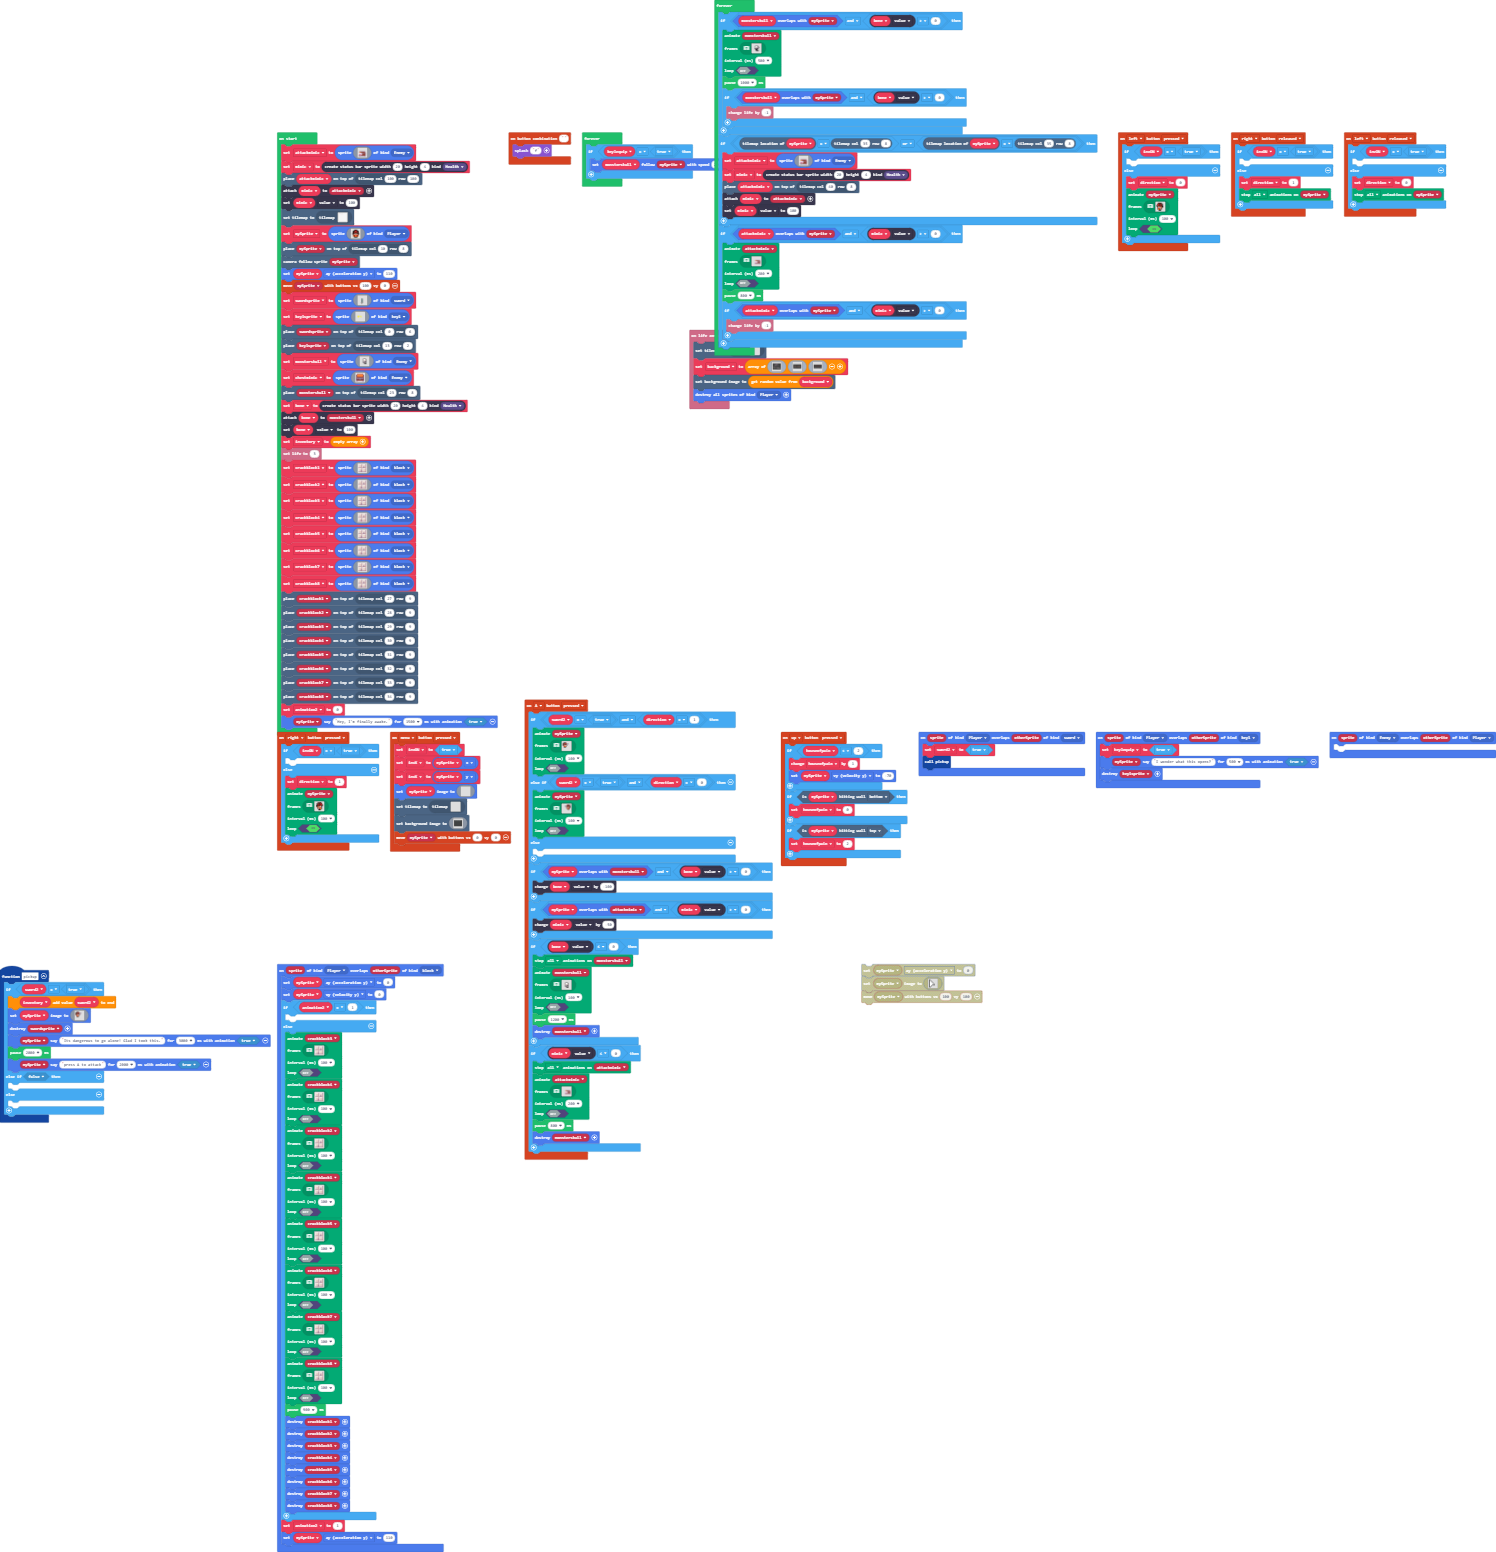
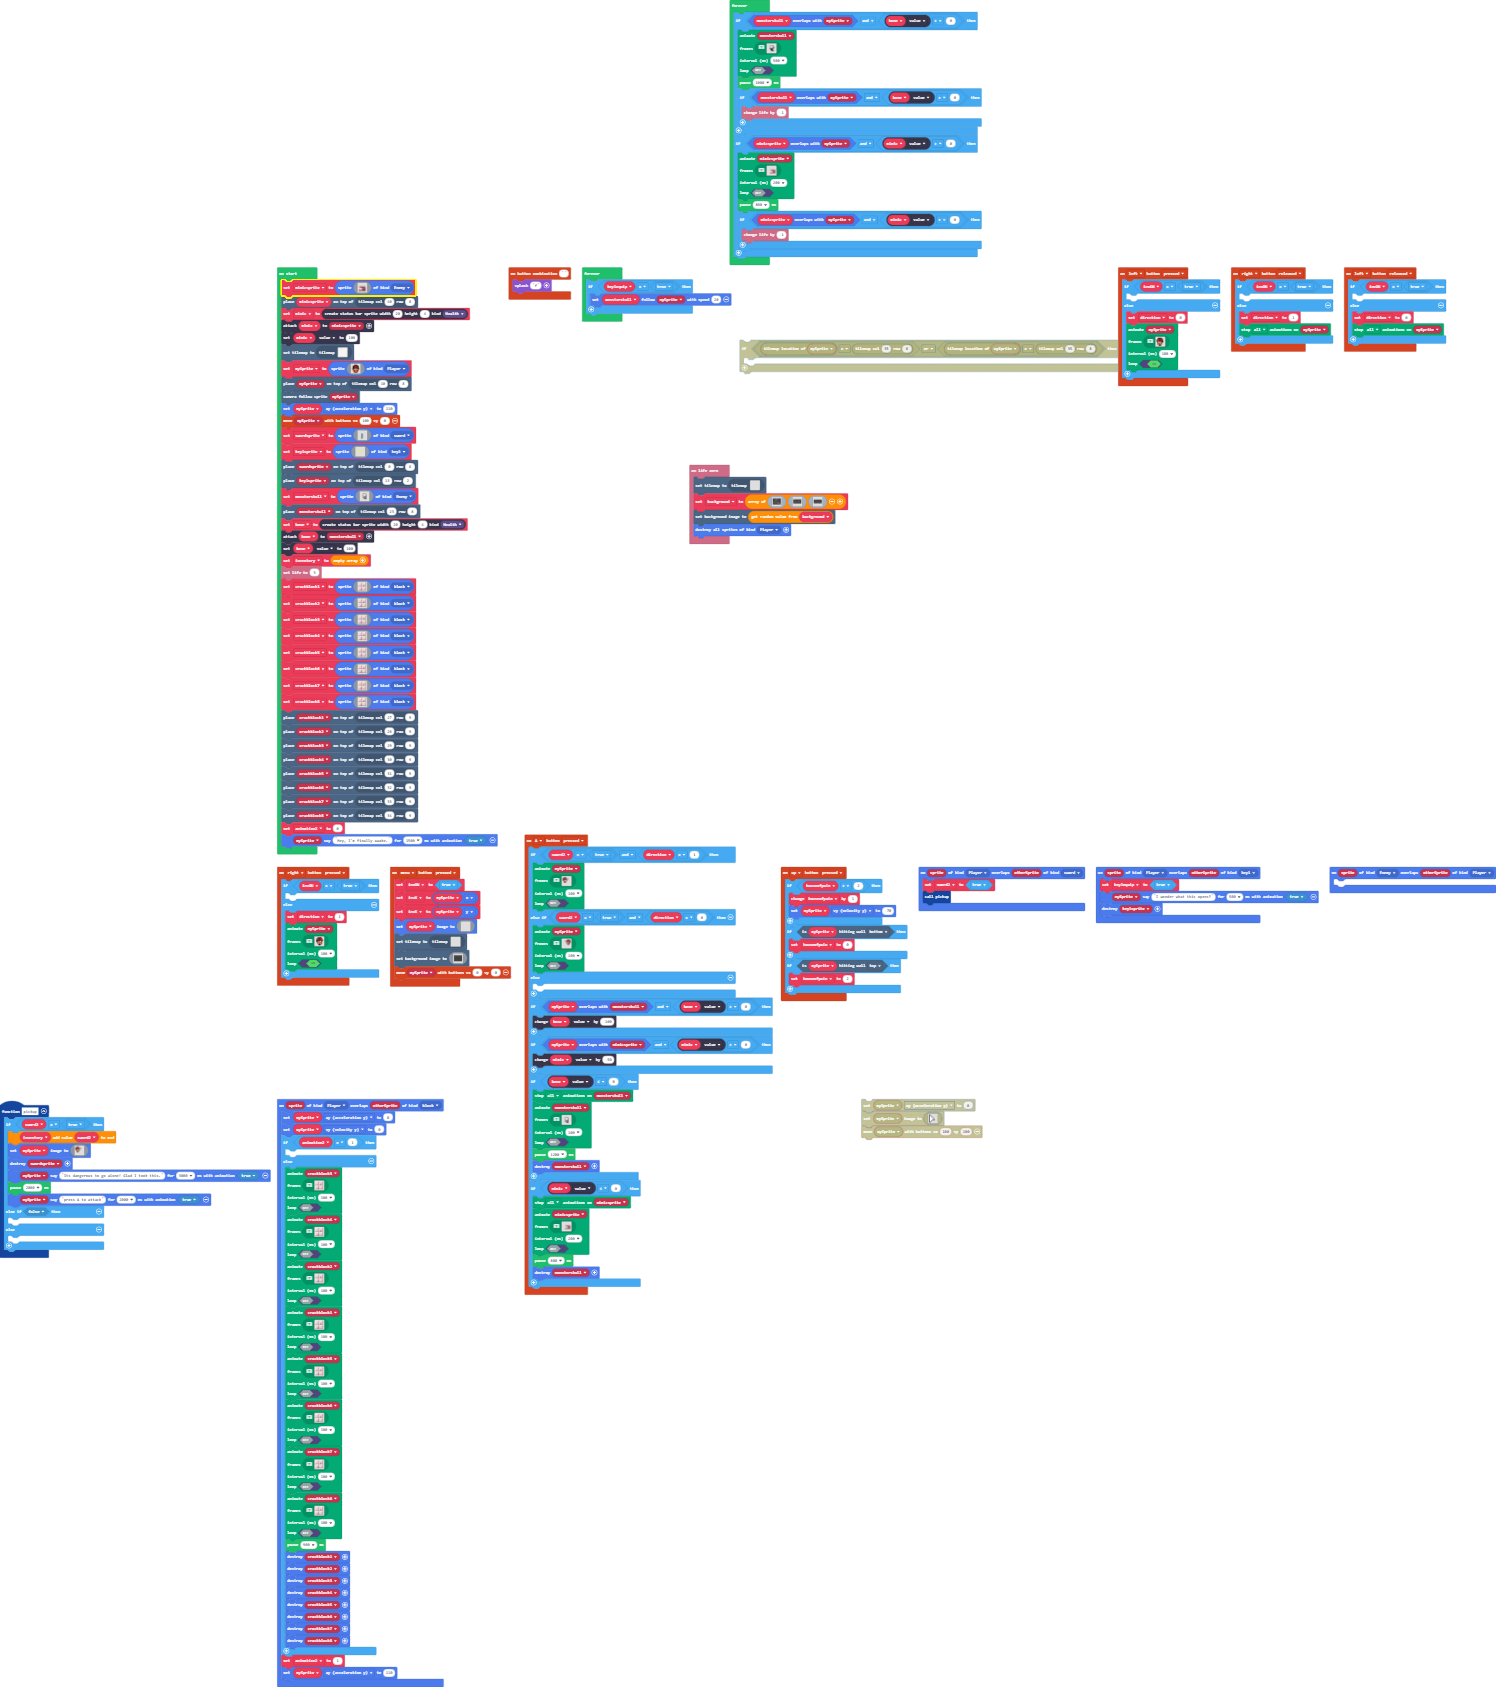
Update main.blocks, main.ts, tilemap.g.jres, tilemap.g.ts

Changed region(s): [[0.1845, 0.0619, 1.0, 0.7732], [0.3382, 0.0, 0.984, 0.3402], [0.0, 0.6186, 0.3075, 1.0]]

diff --git a/tilemap.g.ts b/tilemap.g.ts
@@ -299,6 +299,63 @@ namespace myTiles {
 . . . . . . . . . . . . . . . . 
 . . . . . . . . . . . . . . . . 
 `, [myTiles.transparency16], TileScale.Sixteen);
+            case "level11":
+            case "level11":return tiles.createTilemap(hex`1000100000000000000000000000000000000000000000000000000000000000000000000000000000000000000000000000000000000000000000000000000000000000000000000000000000000000000000000000000000000000000000000000000000000000000000000000000000000000000000000000000000000000000000000000000000000000000000000000000000000000000000000000000000000000000000000000000000000000000000000000000000000000000000000000000000000000000000000000000000000000000000000000000000000000000000000000000000000000000000000000000000000000000000000000000000000000`, img`
+. . . . . . . . . . . . . . . . 
+. . . . . . . . . . . . . . . . 
+. . . . . . . . . . . . . . . . 
+. . . . . . . . . . . . . . . . 
+. . . . . . . . . . . . . . . . 
+. . . . . . . . . . . . . . . . 
+. . . . . . . . . . . . . . . . 
+. . . . . . . . . . . . . . . . 
+. . . . . . . . . . . . . . . . 
+. . . . . . . . . . . . . . . . 
+. . . . . . . . . . . . . . . . 
+. . . . . . . . . . . . . . . . 
+. . . . . . . . . . . . . . . . 
+. . . . . . . . . . . . . . . . 
+. . . . . . . . . . . . . . . . 
+. . . . . . . . . . . . . . . . 
+`, [myTiles.transparency16], TileScale.Sixteen);
+            case "level12":
+            case "level12":return tiles.createTilemap(hex`1000100000000000000000000000000000000000000000000000000000000000000000000000000000000000000000000000000000000000000000000000000000000000000000000000000000000000000000000000000000000000000000000000000000000000000000000000000000000000000000000000000000000000000000000000000000000000000000000000000000000000000000000000000000000000000000000000000000000000000000000000000000000000000000000000000000000000000000000000000000000000000000000000000000000000000000000000000000000000000000000000000000000000000000000000000000000000`, img`
+. . . . . . . . . . . . . . . . 
+. . . . . . . . . . . . . . . . 
+. . . . . . . . . . . . . . . . 
+. . . . . . . . . . . . . . . . 
+. . . . . . . . . . . . . . . . 
+. . . . . . . . . . . . . . . . 
+. . . . . . . . . . . . . . . . 
+. . . . . . . . . . . . . . . . 
+. . . . . . . . . . . . . . . . 
+. . . . . . . . . . . . . . . . 
+. . . . . . . . . . . . . . . . 
+. . . . . . . . . . . . . . . . 
+. . . . . . . . . . . . . . . . 
+. . . . . . . . . . . . . . . . 
+. . . . . . . . . . . . . . . . 
+. . . . . . . . . . . . . . . . 
+`, [myTiles.transparency16], TileScale.Sixteen);
+            case "level13":
+            case "level13":return tiles.createTilemap(hex`1000100000000000000000000000000000000000000000000000000000000000000000000000000000000000000000000000000000000000000000000000000000000000000000000000000000000000000000000000000000000000000000000000000000000000000000000000000000000000000000000000000000000000000000000000000000000000000000000000000000000000000000000000000000000000000000000000000000000000000000000000000000000000000000000000000000000000000000000000000000000000000000000000000000000000000000000000000000000000000000000000000000000000000000000000000000000000`, img`
+. . . . . . . . . . . . . . . . 
+. . . . . . . . . . . . . . . . 
+. . . . . . . . . . . . . . . . 
+. . . . . . . . . . . . . . . . 
+. . . . . . . . . . . . . . . . 
+. . . . . . . . . . . . . . . . 
+. . . . . . . . . . . . . . . . 
+. . . . . . . . . . . . . . . . 
+. . . . . . . . . . . . . . . . 
+. . . . . . . . . . . . . . . . 
+. . . . . . . . . . . . . . . . 
+. . . . . . . . . . . . . . . . 
+. . . . . . . . . . . . . . . . 
+. . . . . . . . . . . . . . . . 
+. . . . . . . . . . . . . . . . 
+. . . . . . . . . . . . . . . . 
+`, [myTiles.transparency16], TileScale.Sixteen);
         }
         return null;
     })

diff --git a/main.ts b/main.ts
@@ -245,7 +245,7 @@ controller.A.onEvent(ControllerButtonEvent.Pressed, function () {
     if (mySprite.overlapsWith(monsterskull) && bone.value > 0) {
         bone.value += -100
     }
-    if (mySprite.overlapsWith(attackmimic) && mimic.value > 0) {
+    if (mySprite.overlapsWith(mimicsprite) && mimic.value > 0) {
         mimic.value += -50
     }
     if (bone.value <= 0) {
@@ -260,9 +260,9 @@ controller.A.onEvent(ControllerButtonEvent.Pressed, function () {
         sprites.destroy(monsterskull)
     }
     if (mimic.value <= 0) {
-        animation.stopAnimation(animation.AnimationTypes.All, attackmimic)
+        animation.stopAnimation(animation.AnimationTypes.All, mimicsprite)
         animation.runImageAnimation(
-        attackmimic,
+        mimicsprite,
         assets.animation`deathmimic`,
         200,
         false
@@ -2238,11 +2238,11 @@ let key1sprite: Sprite = null
 let swordsprite: Sprite = null
 let mySprite: Sprite = null
 let mimic: StatusBarSprite = null
-let attackmimic: Sprite = null
-attackmimic = sprites.create(assets.image`myImage2`, SpriteKind.Enemy)
+let mimicsprite: Sprite = null
+mimicsprite = sprites.create(assets.image`myImage2`, SpriteKind.Enemy)
+tiles.placeOnTile(mimicsprite, tiles.getTileLocation(40, 8))
 mimic = statusbars.create(20, 4, StatusBarKind.Health)
-tiles.placeOnTile(attackmimic, tiles.getTileLocation(100, 100))
-mimic.attachToSprite(attackmimic)
+mimic.attachToSprite(mimicsprite)
 mimic.value = 100
 tiles.setCurrentTilemap(tilemap`level`)
 mySprite = sprites.create(img`
@@ -2272,7 +2272,6 @@ key1sprite = sprites.create(assets.image`myImage`, SpriteKind.key1)
 tiles.placeOnTile(swordsprite, tiles.getTileLocation(0, 6))
 tiles.placeOnTile(key1sprite, tiles.getTileLocation(13, 2))
 monsterskull = sprites.create(assets.image`sword`, SpriteKind.Enemy)
-let chestmimic = sprites.create(assets.image`myImage1`, SpriteKind.Enemy)
 tiles.placeOnTile(monsterskull, tiles.getTileLocation(23, 8))
 bone = statusbars.create(20, 4, StatusBarKind.Health)
 bone.attachToSprite(monsterskull)
@@ -2360,22 +2359,15 @@ forever(function () {
             info.changeLifeBy(-1)
         }
     }
-    if (mySprite.tilemapLocation() == tiles.getTileLocation(35, 8) || mySprite.tilemapLocation() == tiles.getTileLocation(35, 8)) {
-        attackmimic = sprites.create(assets.image`myImage2`, SpriteKind.Enemy)
-        mimic = statusbars.create(20, 4, StatusBarKind.Health)
-        tiles.placeOnTile(attackmimic, tiles.getTileLocation(40, 8))
-        mimic.attachToSprite(attackmimic)
-        mimic.value = 100
-    }
-    if (attackmimic.overlapsWith(mySprite) && mimic.value > 0) {
+    if (mimicsprite.overlapsWith(mySprite) && mimic.value > 0) {
         animation.runImageAnimation(
-        attackmimic,
+        mimicsprite,
         assets.animation`bitemimic`,
         200,
         false
         )
         pause(800)
-        if (attackmimic.overlapsWith(mySprite) && mimic.value > 0) {
+        if (mimicsprite.overlapsWith(mySprite) && mimic.value > 0) {
             info.changeLifeBy(-1)
         }
     }
